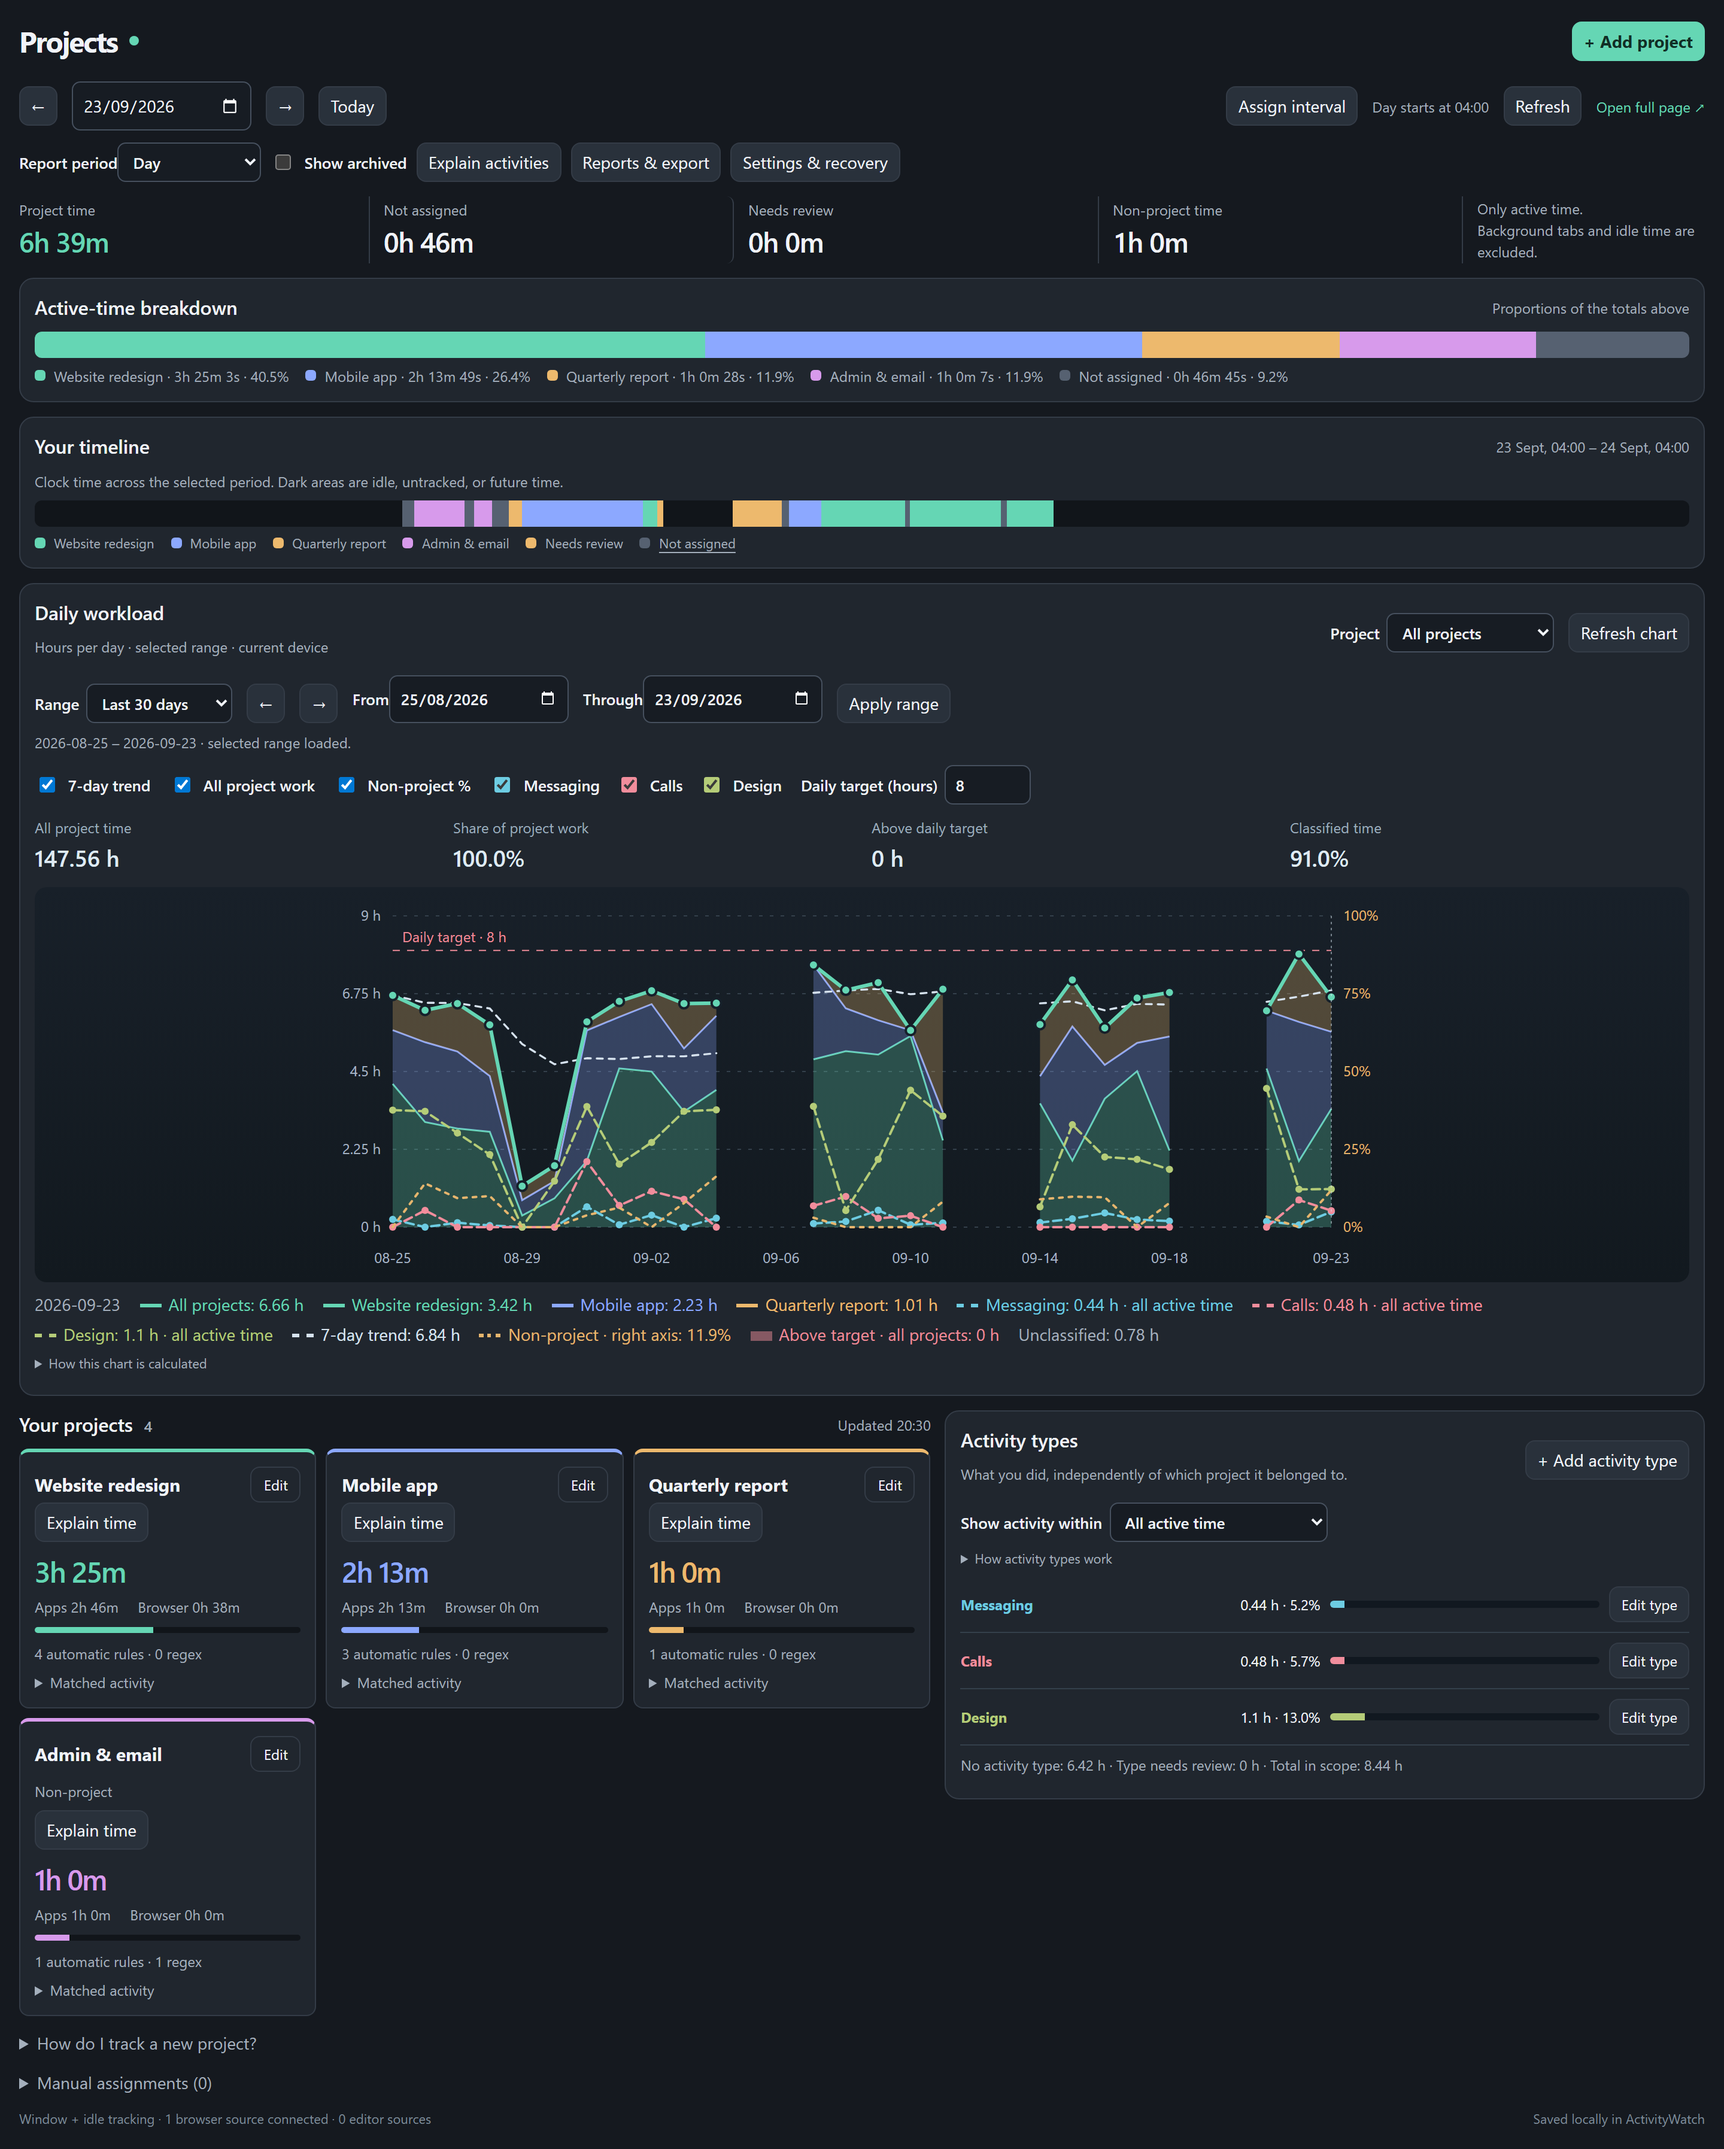
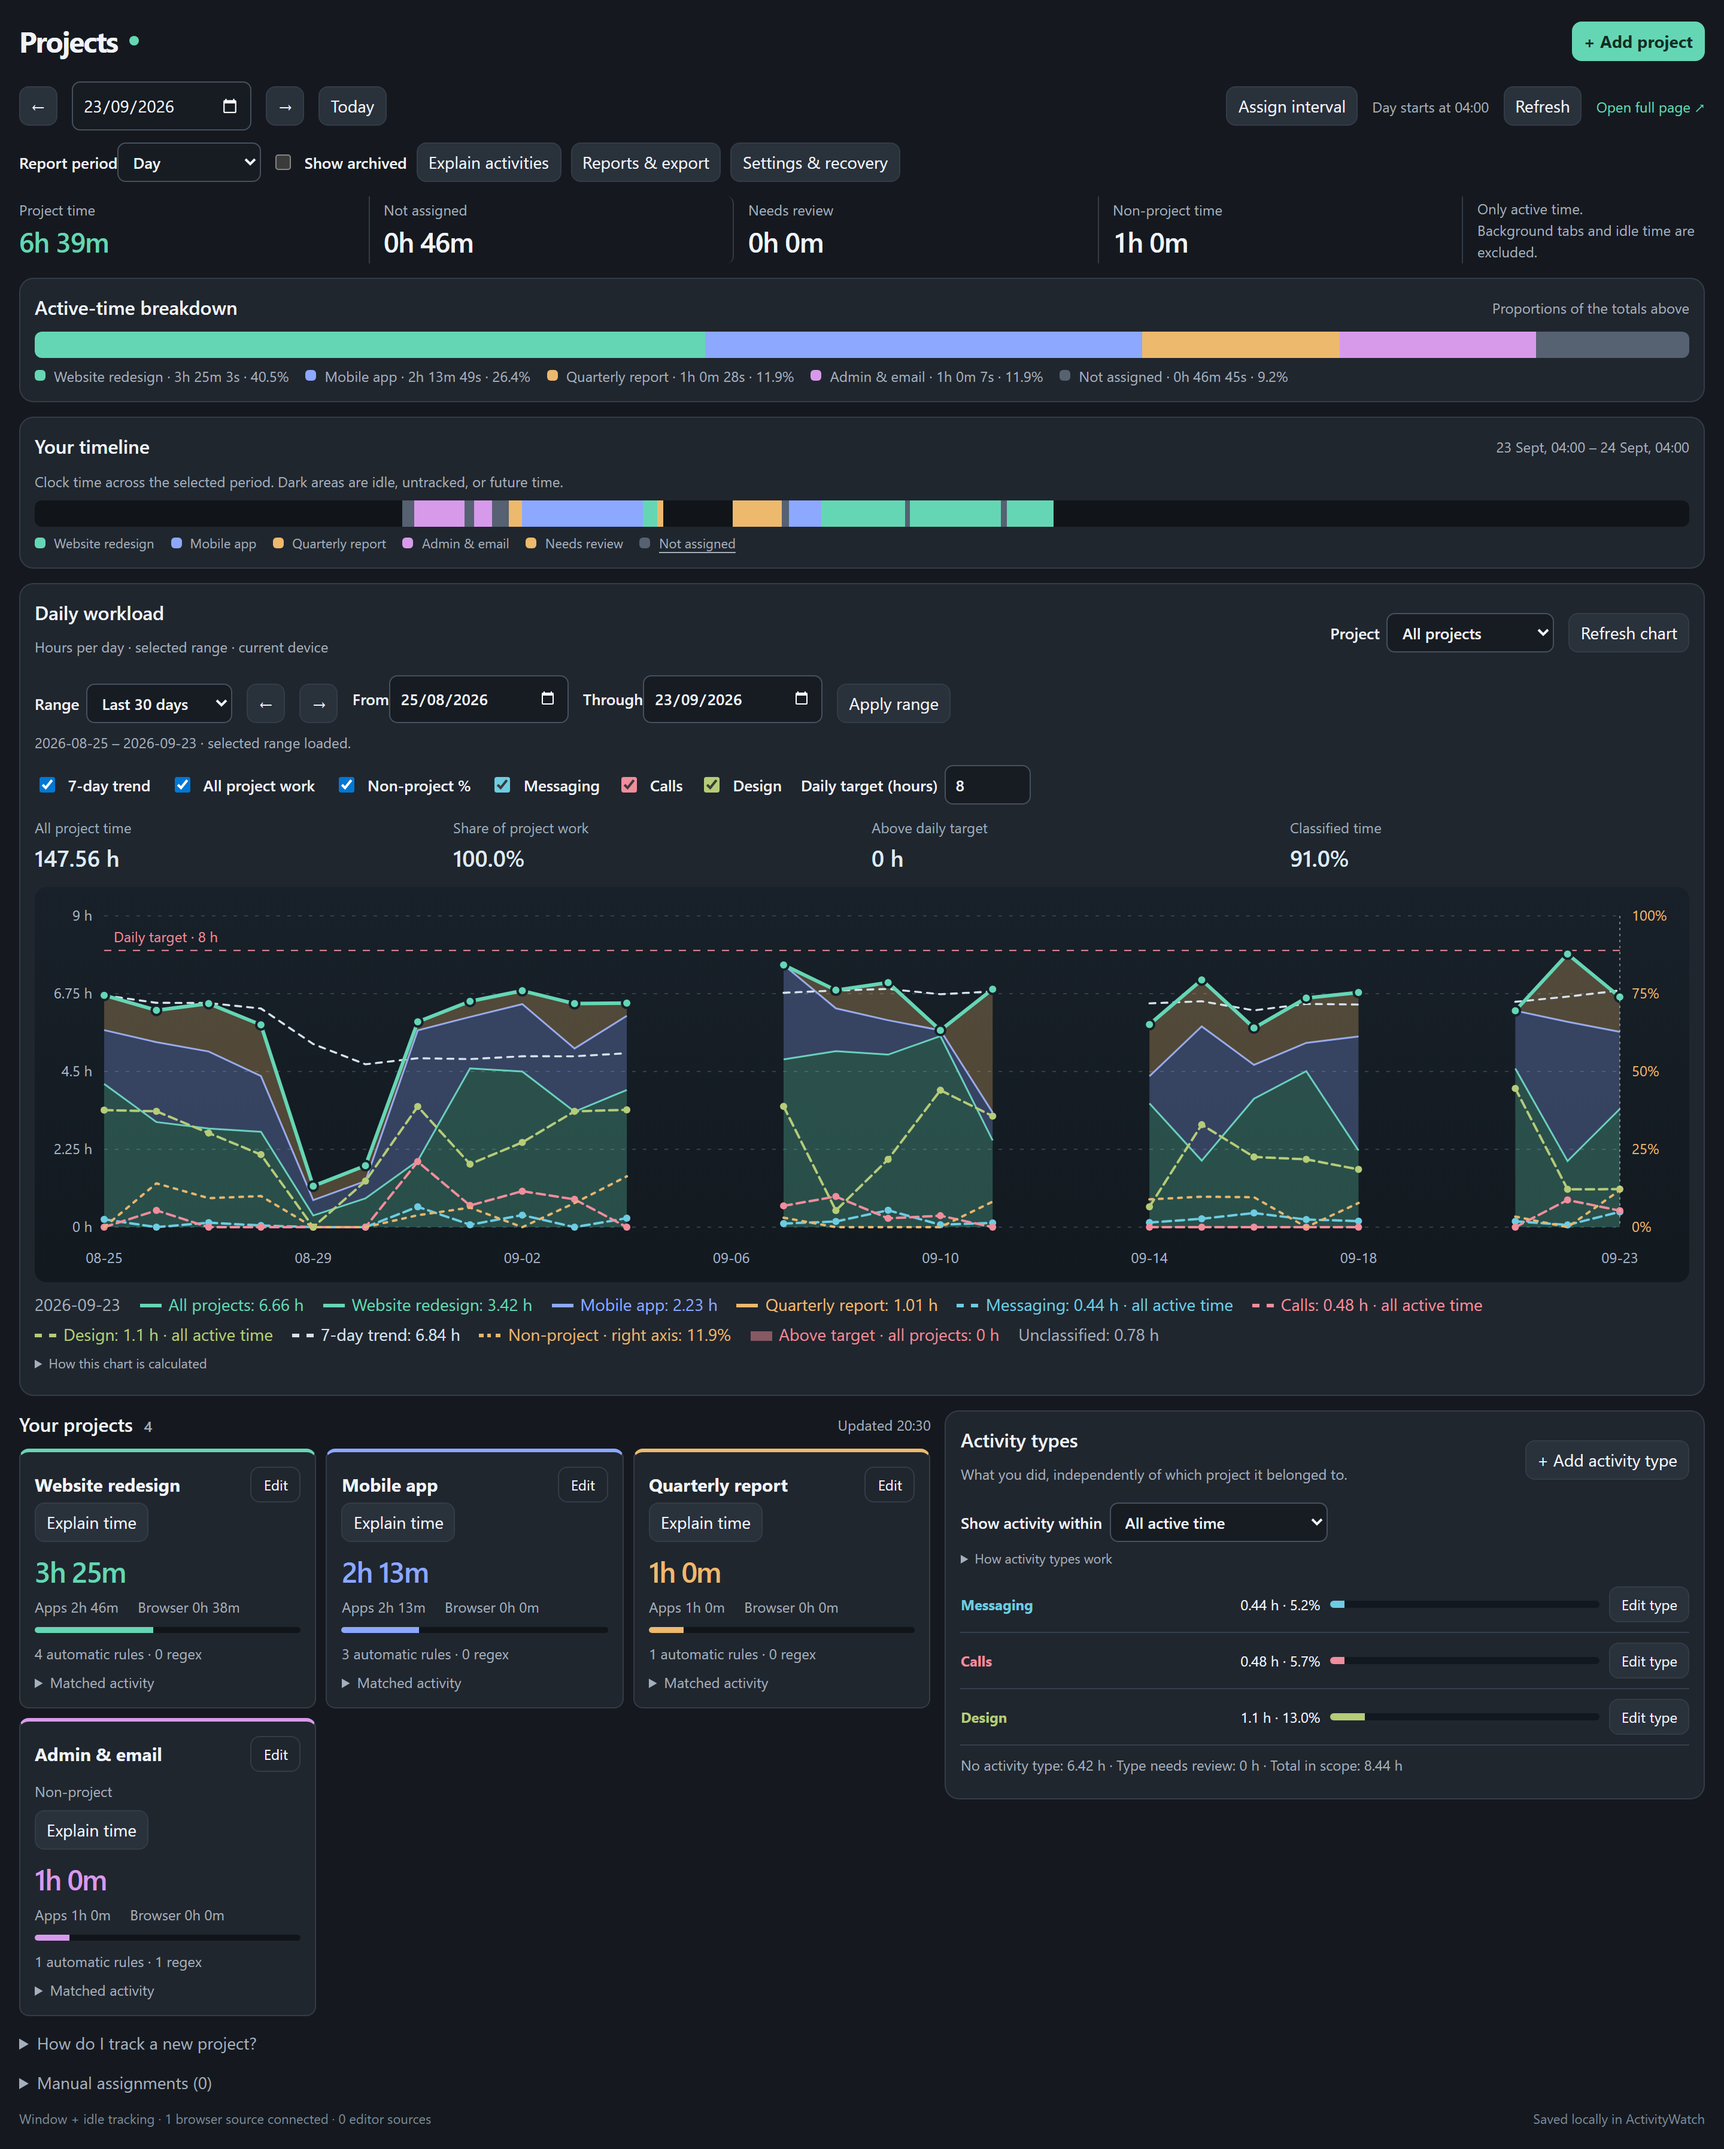
Draw workload chart at full width and open clicked days in the report
- Chart uses the panel's real width and redraws on resize from cached data
- Clicking a day switches the main report to that day; keyboard focus only
  shows the highlight
- Regenerated README screenshots

Changed region(s): [[0.0312, 0.4368, 0.8125, 0.5928], [0.875, 0.4368, 0.9688, 0.5928]]

diff --git a/projects.css b/projects.css
@@ -999,10 +999,11 @@ button.share-segment:hover {
   display: block;
 }
 .workload-chart [role="button"] {
-  cursor: crosshair;
+  cursor: pointer;
   outline: none;
 }
-.workload-chart [role="button"]:focus {
+/* Highlight only for keyboard focus; a mouse click opens the day instead. */
+.workload-chart [role="button"]:focus-visible {
   fill: #ffffff12;
   stroke: #90a8bc;
 }
